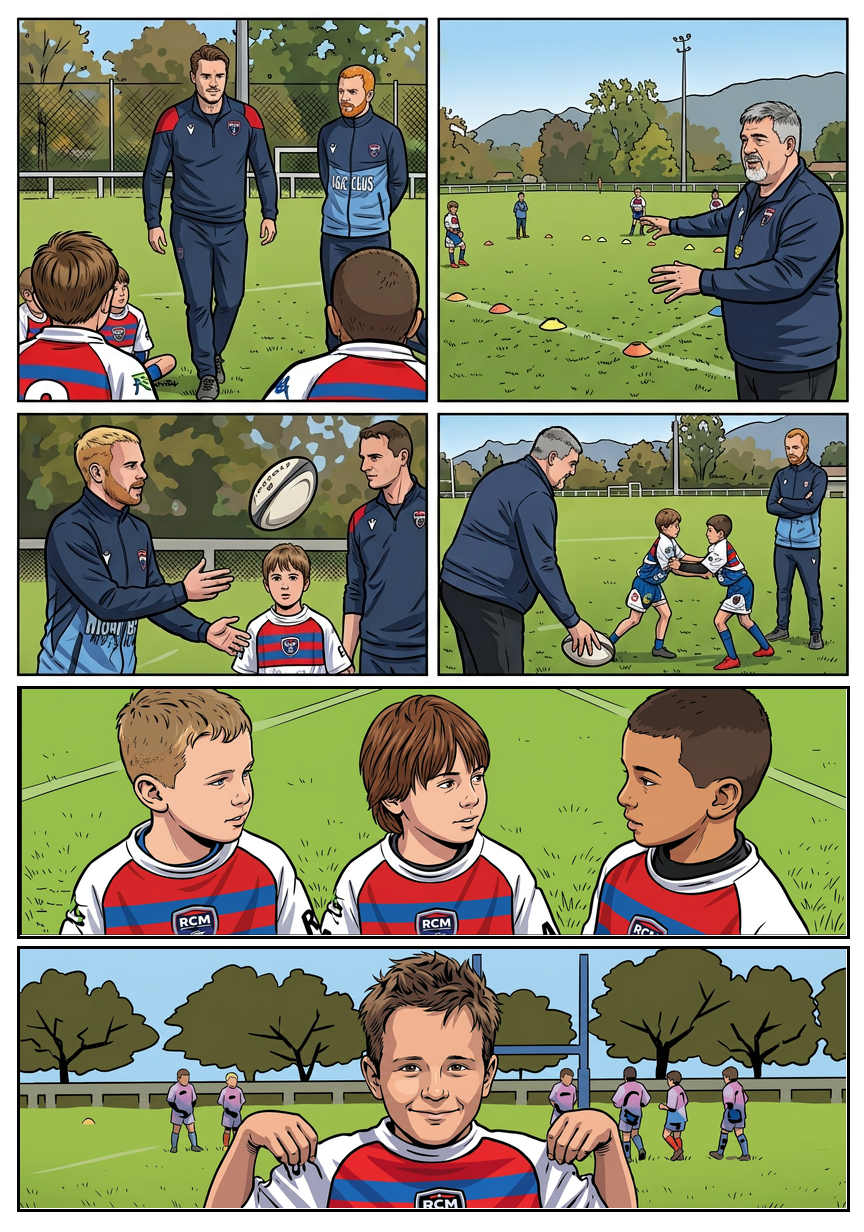
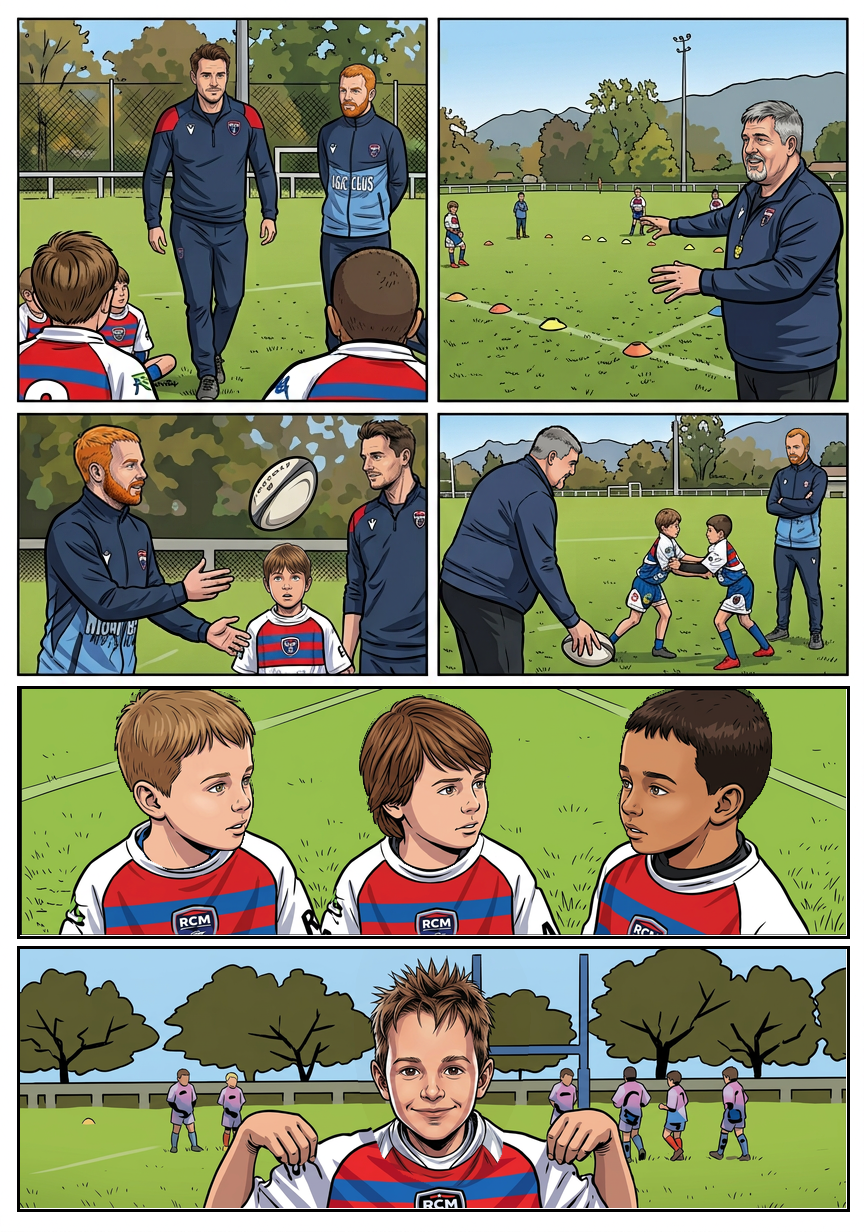
Revoir les six vignettes de la planche 4 sur les modèles de couverture

diff --git a/Planches-dessin/validation/REVUE-COUVERTURE.md b/Planches-dessin/validation/REVUE-COUVERTURE.md
@@ -21,12 +21,12 @@ Les huit recadrages exacts sont dans `revue-couverture/<Prénom>-couverture.png`
 |---|---:|
 | Planches vues en ensemble | 30 |
 | Vignettes réellement inventoriées | 153 |
-| Premières reprises intégrées, encore à relire | 17 |
-| Corrections seulement partielles, à poursuivre | 2 |
-| Autres vignettes restant à contrôler individuellement | 134 |
+| Premières reprises intégrées, encore à relire | 23 |
+| Corrections seulement partielles, à poursuivre | 1 |
+| Autres vignettes restant à contrôler individuellement | 129 |
 | Validations définitives de style et ressemblance | **0** |
 
-Les 19 vignettes ayant reçu une intervention ne sont pas 19 vignettes définitivement conformes. Le reste de la revue demandée n’est pas terminé. Le manifeste `REVUE-COUVERTURE.json` conserve une entrée et un état explicite pour chacune des 153 vignettes.
+Les 24 vignettes ayant reçu une intervention ne sont pas 24 vignettes définitivement conformes. Le reste de la revue demandée n’est pas terminé. Le manifeste `REVUE-COUVERTURE.json` conserve une entrée et un état explicite pour chacune des 153 vignettes.
 
 ## Première livraison : 26/3 et 26/6
 
@@ -80,6 +80,19 @@ Quatre nouvelles interventions ; **03/3** a été réexaminée mais conserve sa 
 
 Preuves : `revue-couverture/lot-d/03-AVANT-APRES.jpg`, `COMPTAGE-03-5.jpg` et quatre masques. Montage relu en comparatif et en contexte de page. Les différences encore présentes de traitement des tenues, des corps et des décors ne sont pas dispensées de relecture globale.
 
+## Cinquième livraison : les six vignettes de la planche 4
+
+Cinq nouvelles vignettes examinées/corrigées et **04/5** reprise au-delà de sa précédente correction de couleur. Cette dernière passe du statut de correction partielle à celui de **première reprise à relire** ; ce n’est pas une validation définitive.
+
+- **04/1 :** visages de Flavien et Kilian rapprochés des modèles, avec légère barbe brune et barbe rousse. Corps, pas en avant, enfants assis, tenues et décor hors masques préservés.
+- **04/2 :** tête de Julien en trois-quarts profil reprise : cheveux gris, bouc/moustache et visage du modèle. Plots, bras/mains en explication et terrain préservés hors masque. Réserve : schéma tactique lumineux absent ; ne pas confondre correction de ressemblance et conformité finale de toute la scène.
+- **04/3 :** **Kilian, encore blond, est corrigé en roux à barbe rousse**. Têtes Flavien et Milo reprises ; frange pleine châtaine et regard attentif/surpris pour Milo. Ballon de démonstration, mains et vêtements hors masques inchangés.
+- **04/4 :** portraits de Julien penché et Kilian debout repris. Deux enfants, contact à deux mains, ballon et gestes préservés. Un premier appel n’avait renvoyé aucune image et a été relancé. Réserve : le cadrage réaliste combine ballon au premier plan et démonstration du touché derrière, tandis que le scénario décrit Julien montrant la touche ; raccord à relire, pas déclaré parfaitement conforme.
+- **04/5 :** nouvelles têtes **Ayden, Lyssandro, Nolann** : coupe courte vers l’avant châtain clair, frange châtaine de côté, courte frange brun foncé avec teint mat. Une première intégration par enveloppes larges importait des fragments de fond et décalait les lignes du terrain : écartée. Détourage des silhouettes, retrait local des anciennes têtes et fond d’origine entre les personnages dans l’intégration retenue. Les masques cumulatifs incluent aussi l’ancienne correction de cheveux.
+- **04/6 :** visage et pics châtains de Léon repris sur le modèle de couverture, sourire de défi adapté à la scène. Haussement d’épaules, deux mains, tenue/écusson et les six enfants adverses au fond conservés hors masque. Pas de nouveau texte.
+
+Comparatif : `revue-couverture/lot-e/04-AVANT-APRES.jpg`. Six masques de cette passe et six masques cumulatifs documentent la localité. Contrôle visuel après montage des portraits et de la page entière ; les réserves sur les raccords de scénario, les tenues et l’encrage des corps/décors restent ouvertes pour la relecture globale.
+
 ## Contrôles techniques et audits historiques
 
 `outils/retouche/verifier_revue_couverture.py` compare les 31 PNG au début de la revue : couverture inchangée, dimensions, empreintes, absence de modification des fichiers non concernés et invariance des pixels hors masques. Il contrôle également la cohérence des états et du bilan. **Il ne mesure pas la ressemblance ou la qualité du dessin.**
@@ -88,7 +101,7 @@ Les vérificateurs des audits 13–22, comme ceux de 23–30, s’appliquent dé
 
 ## Suite obligatoire
 
-Contrôler individuellement les **134 autres vignettes**, terminer **04/5 et 14/2**, puis relire les premières reprises. Vérifier systématiquement chaque occurrence de Nolann et des sept autres personnages, ainsi que décors et encrage : la revue ne peut pas se limiter aux couleurs de peau/cheveux.
+Contrôler individuellement les **129 autres vignettes**, terminer **14/2**, puis relire les premières reprises, notamment les six cases de la planche 4 et les réserves de scénario. Vérifier systématiquement chaque occurrence de Nolann et des sept autres personnages, ainsi que décors et encrage : la revue ne peut pas se limiter aux couleurs de peau/cheveux.
 
 Procédure : identification au scénario → comparaison aux personnages de couverture → comparaison à la planche réaliste → correction locale → relecture en contexte de page. Les raccords cou/cheveux/mains et les tenues restent à contrôler. Aucun candidat simplement généré n’est automatiquement validé.
 

diff --git a/Planches-dessin/SUIVI-STYLE.md b/Planches-dessin/SUIVI-STYLE.md
@@ -2,7 +2,7 @@
 
 **La couverture `00-couverture-marvel.png` est désormais la seule référence de style et d’identité.** La décision utilisateur remplace la priorité V2 décrite dans l’historique ci-dessous. La couverture reste inchangée.
 
-Suivi actuel : [`validation/REVUE-COUVERTURE.md`](validation/REVUE-COUVERTURE.md) et son manifeste JSON : 153 vignettes inventoriées, 17 premières reprises, 2 corrections partielles, 134 autres contrôles individuels à faire, aucune validation définitive. Les anciennes approbations ne valent pas conformité au nouveau référentiel.
+Suivi actuel : [`validation/REVUE-COUVERTURE.md`](validation/REVUE-COUVERTURE.md) et son manifeste JSON : 153 vignettes inventoriées, 23 premières reprises, 1 correction partielle, 129 autres contrôles individuels à faire, aucune validation définitive. Les anciennes approbations ne valent pas conformité au nouveau référentiel.
 
 ---
 
